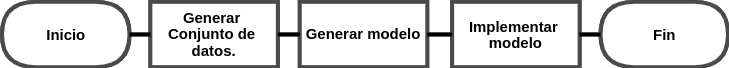
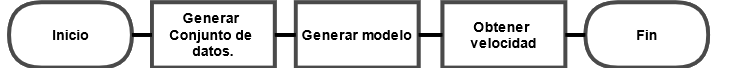
Se actualizo estado del arte, resultados, metodologia y marco teorico.

diff --git a/EstadoDelArte/capitulo.tex b/EstadoDelArte/capitulo.tex
@@ -2,11 +2,9 @@
 
 Actualmente existen múltiples trabajos que determinan la velocidad de objetos, cada uno de una manera muy particular. En este capítulo se muestran algunos trabajos que se tomaron como referencia para desarrollar el presente trabajo.
 
-\section{Determinación simple velocidad, aceleración y ángulo}
+\section{Determinación de velocidad con metodos de visión artificial}
 
 Es posible determinar la velocidad y otras características usando las fórmulas físicas de cada una de ellas. Con lo cual podemos tener una respuesta rápida ya que no se necesita de mucho procesamiento para ejecutar estas fórmulas.
-
-\subsection{Velocidad usando 2 imagenes consecutivas}
 
 \citeauthor{singh2007Estimating} propone determinar la velocidad, aceleración y ángulo de un objeto en  una secuencia de imágenes. Para esto se deben cumplir con las siguientes características:
 
@@ -36,60 +34,58 @@ Para determinar los valores buscados se dibuja un punto en el centroide del obje
     \tan^{-1}\frac{y2-y1}{x2-x1}
 \end{eqnarray}
 
+
+\citeauthor{anil2015Real} proponen un framework hibrido para el seguimiento de múltiples vehículos con la combinación del filtro Kalman y el algoritmo húngaro para resolver el problema de las obstrucciones. La estimación de la velocidad puede ser realizada sin la necesidad de calibrar las cámaras a utilizar, ya que utiliza las líneas del pavimento para realizar una estimación con un error máximo de 3 kilómetros por hora.
+
+
+\citeauthor{li2014Video} desarrollan un sistema para recopilar datos de tráfico a partir de video, el sistema reconoce y se realiza el seguimiento de múltiples vehículos y sus velocidades medias. Propone la sustracción de fondo adaptativo basado en imágenes en color, se eliminan sombras y la configuración de la región de detección para mejorar la robustes del sistema. El conteo de vehículos tiene una precisión de 97.4\%, un error de clasificación de 8.3\% y un error absoluto de 2.3 kilómetros por hora.
+
+
+\citeauthor{khan2019Multiple} proponen un sistema para realizar el seguimiento de vehículo y determinar el exceso de velocidad de vehículos. Para el seguimiento se aplica la diferenciación de cuadros para la detección de objetos. En la diferenciación de fotogramas, se calcula el modelo de fondo y el fotograma actual se resta del fotograma anterior, que se calcula durante el modelado. Después con el análisis de manchas se rastrean los objetos en la región de interés. El sistema propuesto tiene una precisión de 90\% para la detección y la medición de la velocidad.
+
+
+\citeauthor{yang2019Vehicle} proponen el uso de cámaras estéreo calibradas con las cuales estiman la velocidad de vehículos. Este desarrollo usa un sistema optimizado Red de detectores multibox de un solo disparo que puede detectar de manera eficiente las matrículas en las dos vistas capturadas videos estéreo. El sistema funciona solo en el área de la placa, se calculan las coordenadas en un plano 3D correspondientes a los puntos de coincidencia estéreo. La velocidad se mide dividiendo la distancia entre dos puntos 3D por intervalo de cuadros. El sistema tiene un error de velocidad de –1.6 a +1.1 Km y una tasa de error máxima del 3.80\%.
+
+
+\citeauthor{kamoji2020Image} proponen procesar un video cuadro a cuadro, en el cual cada cuadro se procesa con Image Enhancement para mejorar las características de la imagen, e vehículo se identifica con un cuadro delimitador aplicado al vehículo, para notar el movimiento en cada cuadro, el movimiento del vehículo se anota con cambio en el píxel y el cálculo de la velocidad se determina usando la fórmula de distancia considerando pixeles por metro.
+
+
+\citeauthor{kurniawan2018Speed} proponen un sistema que puede monitorear la velocidad de algunos vehículos y determinar qué vehículos han superado la velocidad máxima permitida mediante el seguimiento del vehículo utilizando un método basado en coincidencias. Se utilizo el método de transformación proyectiva para calcular la velocidad de un vehículo. Este método se utiliza para transformar la imagen capturada en la imagen de la vista superior en forma de rectángulo. Según los resultados de las pruebas en el sistema a una velocidad de fotogramas de 30 FPS, la precisión de la velocidad de cálculo es del 97.01\% cuando no hay sombra y 83.86\% cuando hay sombra. Este sistema también puede determinar el tipo de vehículo de automóvil o motocicleta detectado que se rompe con una precisión del 89.62\%.
+
+
+\citeauthor{peng2019Improved} determinan la velocidad de vehículos en movimiento con el uso de cámaras estéreos montadas en drones. Su método integra Mask-R-CNN  y K-Means con el algoritmo de pirámide Lucas Kanade. Mask-R-CNN se utiliza para reconocer los objetos que tienen movimientos en relación con el suelo y los cubre con máscaras para mejorar la similitud entre píxeles y reducir los impactos de los ruidosos píxeles en movimiento. Luego, se utiliza el algoritmo piramidal de Lucas Kanade para calcular el valor de flujo óptico. Finalmente, el valor es agrupado por el algoritmo K-Means para abandonar los valores atípicos, y la velocidad del vehículo es calculada por el flujo óptico procesado. En sus experimentos demuestran que el uso combinado de Lucas Kanade , Mask-R-CNN y K-Means, mejoran sus resultados en comparación del uso de estos métodos por separado o el uso combinado de solo 2 de ellos, aun habiendo realizado experimentos en circunstancias normales, con muchos objetos en movimiento y en circunstancias de poca luz.
+
+
+\citeauthor{schoepflin2003Dynamic} nos muestran un algoritmo de 3 etapas para calibrar cámaras de tráfico en carretera y rastrear vehículos para crear un sensor de velocidad del tráfico. El algoritmo primero estima la posición de la cámara en relación a la carretera usando el movimiento y los bordes de los vehículos. Dada la posición de la cámara, el algoritmo calibra la cámara estimando los límites del carril y el punto de fuga de las líneas a lo largo de la carretera. El algoritmo transforma las coordenadas de la imagen del rastreador de vehículos en coordenadas del mundo real utilizando un modelo de cámara simplificado.
+
+
+\citeauthor{yan2010Research} presenta un método de medición de la velocidad de vehículos en video y un análisis del error de la calibración de la cámara con el método Tsai de dos etapas. En primer lugar, los parámetros internos y externos de la cámara se obtuvieron según el método de dos etapas de Tsai. El desplazamiento del punto característico del mismo vehículo en cada imagen se extrajo y se convirtió al sistema de coordenadas mundiales. Por último, la velocidad de los vehículos se realizó con la diferencia de tiempo entre dos cuadros secuenciales. El resultado experimental muestra que el método de medición de la velocidad del vehículo no solo es simple y práctico, sino también muy robusto y preciso con un error cuadrático medio de 1.6273.
+
+
+\citeauthor{luvizon2014Vehicle} nos muestran un sistema que utiliza la detección de texto para localizar las matrículas de los vehículos, la cual es utilizada para seleccionar las características más estables para el seguimiento. La velocidad del vehículo se estima comparando la trayectoria de las características rastreadas con medidas conocidas del mundo real. En los experimentos realizados las velocidades de los vehículos se estimaron con un error absoluto medio de 0.59 km/h.
+
+
 \section{Redes neuronales para determinar velocidad y otras características}
 
 Las redes neuronales pueden ser aplicadas para determinar la velocidad y otras características de objetos en movimiento obteniendo buenos resultados, hasta compararse con dispositivos especializados para esta tarea, sin embargo, esto implica mayor costo computacional para entrenar estas redes neuronales.
 
-\subsection{aUToTrack}
 
-\citeauthor{burnett2020aUToTrack} presentan un nuevo conjunto de datos de detección y seguimiento de objetos (UofTPed50), que utiliza GPS para determinar la posición y velocidad de un peatón. Tambien presentan un sistema de seguimiento y detección de objetos liviano (aUToTrack) que utiliza visión, LIDAR y posicionamiento GPS/IMU para lograr un rendimiento de vanguardia en el punto de referencia de seguimiento de objetos de KITTI. Demostramos que aUToTrack estima con precisión la posición y la velocidad de los peatones, en tiempo real, utilizando solo CPU.
+\citeauthor{bell2020Accurate} utilizan una cámara de video para estimar la velocidad vehicular. Con el uso de YOLOv2 se encargan de detectar los vehículos de la escena, mientras que el algoritmo de seguimiento en tiempo real en línea simple para el seguimiento de vehículos. La transformación del metraje de la cámara al Sistema de coordenadas de cuadrícula nacional británico, permitió la derivación de distancias del mundo real en la superficie plana de la carretera y las estimaciones simultáneas de la velocidad del vehículo. Las estimaciones lograron la raíz del error cuadrático medio y un error porcentual absoluto medio de 0.625 m/s y 20.922\%, respectivamente.
 
-Para poner a prueba el nuevo conjunto de entrenamiento UofTPed50 se utilizó la red SqueezeDet por contar con la característica de ser una de las redes más rápidas. Por otra parte para el seguimiento de objetos se utilizó el conjunto de entrenamiento KITTI con convoluciones rodantes recurrentes, ya que ocupa el primer lugar entre los trabajos publicados en el punto de referencia de detección de objetos 2D.
 
-\subsection{Red Neuronal Perceptron Multicapa}
+\citeauthor{dong2019Vehicle} proponen un método alternativo de extremo a extremo basado en redes convolucionales tridimensionales. El método propuesto basa la estimación de la velocidad promedio del vehículo en información de imágenes de video. El método se caracteriza por las siguientes tres características. Primero, el uso de bloques no locales en el modelo para capturar mejor la dependencia espacio-temporal de largo alcance. En segundo lugar, el uso de flujo óptico como entrada en el modelo. El flujo óptico incluye la información sobre la velocidad y la dirección del movimiento de los píxeles en una imagen. En tercer lugar, se construyó una red convolucional de múltiples escalas. Esta red extrae información sobre diversas características de los vehículos en movimiento. El método propuesto muestra resultados experimentales prometedores en un conjunto de datos de uso común con un error absoluto medio (MAE) de 2.71 km/h y un error cuadrático medio (MSE) de 14.62.
 
-\citeauthor{kampelmuhler2018Camera} determinan la velocidad relativa de un vehículo utilizando una red neuronal perceptron multicapa la cual fue entrenada usando secuencias de imágenes, obteniendo buenos resultados con un error promedio de 1.12 m/s, el cual es comparable con un radar  LiDAR con un error de 0.71 m/s.
 
-Para determinar la velocidad se identificaron 3 características esenciales: la trayectoria del vehículo en un plano 2D, la profundidad y estimaciones de flujo óptico entre imágenes consecutivas. Al identificar un vehículo en una secuencia de imágenes podemos identificar que este, aumenta o disminuye su tamaño dependiendo la distancia que tiene con respecto al observador, esto complica el aprendizaje para la red neuronal por lo cual se opta por separar la información en cerca, medio y lejos, y entrenar un modelo para cada distancia.
+\citeauthor{burnett2020aUToTrack} presentan un nuevo conjunto de datos de detección y seguimiento de objetos (UofTPed50), que utiliza GPS para determinar la posición y velocidad de un peatón. Tambien presentan un sistema de seguimiento y detección de objetos liviano (aUToTrack) que utiliza visión, LIDAR y posicionamiento GPS/IMU para lograr un rendimiento de vanguardia en el punto de referencia de seguimiento de objetos de KITTI. Demostramos que aUToTrack estima con precisión la posición y la velocidad de los peatones, en tiempo real, utilizando solo CPU. Para poner a prueba el nuevo conjunto de entrenamiento UofTPed50 se utilizó la red SqueezeDet por contar con la característica de ser una de las redes más rápidas. Por otra parte para el seguimiento de objetos se utilizó el conjunto de entrenamiento KITTI con convoluciones rodantes recurrentes, ya que ocupa el primer lugar entre los trabajos publicados en el punto de referencia de detección de objetos 2D.
 
-\subsection{Camaras estereo}
 
-\citeauthor{peng2019Improved} determinan la velocidad de vehículos en movimiento con el uso de cámaras estéreos montadas en drones. Su método integra Mask-R-CNN  y K-Means con el algoritmo de pirámide Lucas Kanade. Mask-R-CNN se utiliza para reconocer los objetos que tienen movimientos en relación con el suelo y los cubre con máscaras para mejorar la similitud entre píxeles y reducir los impactos de los ruidosos píxeles en movimiento. Luego, se utiliza el algoritmo piramidal de Lucas Kanade para calcular el valor de flujo óptico. Finalmente, el valor es agrupado por el algoritmo K-Means para abandonar los valores atípicos, y la velocidad del vehículo es calculada por el flujo óptico procesado.
+\citeauthor{kampelmuhler2018Camera} determinan la velocidad relativa de un vehículo utilizando una red neuronal perceptron multicapa la cual fue entrenada usando secuencias de imágenes, obteniendo buenos resultados con un error promedio de 1.12 m/s, el cual es comparable con un radar  LiDAR con un error de 0.71 m/s. Para determinar la velocidad se identificaron 3 características esenciales: la trayectoria del vehículo en un plano 2D, la profundidad y estimaciones de flujo óptico entre imágenes consecutivas. Al identificar un vehículo en una secuencia de imágenes podemos identificar que este, aumenta o disminuye su tamaño dependiendo la distancia que tiene con respecto al observador, esto complica el aprendizaje para la red neuronal por lo cual se opta por separar la información en cerca, medio y lejos, y entrenar un modelo para cada distancia.
 
-En sus experimentos demuestran que el uso combinado de Lucas Kanade , Mask-R-CNN y K-Means, mejoran sus resultados en comparación del uso de estos métodos por separado o el uso combinado de solo 2 de ellos, aun habiendo realizado experimentos en circunstancias normales, con muchos objetos en movimiento y en circunstancias de poca luz.
 
-\subsection{Arquitectura PWC-Net}
+\citeauthor{song2020Learning} determinan la velocidad y distancia de un vehículo usando dos fotogramas consecutivos, de los cuales obtienen las  características profundas, la geometría de la escena y el flujo óptico temporal. La arquitectura de esta red neuronal profunda se basó en la arquitectura de PWC-Net, la cual es una red de estimación de flujo óptico eficiente. Se extraen diferentes características de diferentes capas de la red para estimar la distancia y la velocidad del vehículo. En primer lugar, se presenta el modelo de regresión de distancia utilizando características profundas y geométricas espaciales de vehículos. Después de eso, se propone el método de estimación de la velocidad con características geométricas adicionales y una pista de flujo óptico temporal. Por último, detallan la canalización de la red centrada en vehículos para reducir la perspectiva y la influencia del movimiento.
 
-\citeauthor{song2020Learning} determinan la velocidad y distancia de un vehículo usando dos fotogramas consecutivos, de los cuales obtienen las  características profundas, la geometría de la escena y el flujo óptico temporal.
+\citeauthor{zhang2017Vehicle} realizaron experimentos para obtener la aceleración, la velocidad y la velocidad angular de un vehículo en movimiento usando cámaras de video posicionadas frente al área de interés. Para sus experimentos utilizaron el conjunto de datos KITTI el cual cuenta con imágenes estereoscópicas de la ciudad, así como arquitecturas CNN y la derivación y combinación de canales de entrada para identificar la dirección del flujo y las máscaras de objetos. Se creó una arquitectura CNN para cada característica buscada, aceleración, velocidad y velocidad angular. Se tomó como línea base una arquitectura CNN de 2 capas, que consta de 2 capas conv-relu-batchnorm-maxpooling y 2 capas afines-relu-batchnorm-dropout. Este proyecto compara los resultados para 4 arquitecturas CNN: línea de base, AlexNet, ResNet y AlexNet con el aprendizaje por transferencia.  Los resultados muestran que para el conjunto de entrenamiento ResNet tiene los mejores resultados seguido por AlexNet con el aprendizaje por transferencia, AlexNet y la línea base. Sin embargo, para el conjunto de validación  los mejores resultados los muestra la línea base, puesto que el entrenamiento de este modelo es más rápido y es posible buscar los hiperparametros para los mejores resultados. AlexNet con el aprendizaje por transferencia y AlexNet son los segundos mejores y ResNet tiene los peores resultados para el conjunto de validación.
 
-La arquitectura de esta red neuronal profunda se basó en la arquitectura de PWC-Net, la cual es una red de estimación de flujo óptico eficiente. Se extraen diferentes características de diferentes capas de la red para estimar la distancia y la velocidad del vehículo. En primer lugar, se presenta el modelo de regresión de distancia utilizando características profundas y geométricas espaciales de vehículos. Después de eso, se propone el método de estimación de la velocidad con características geométricas adicionales y una pista de flujo óptico temporal. Por último, detallan la canalización de la red centrada en vehículos para reducir la perspectiva y la influencia del movimiento.
+\citeauthor{loor2017Visual} busca determinar la velocidad de los objetos utilizando 2 imágenes consecutivas. Para encontrar la velocidad el autor tomo como base la red neuronal FlowNet la cual ha aprendido a encontrar el flujo óptico en dos imágenes. FlowNet tiene dos arquitecturas de red diferentes: una arquitectura simple y una arquitectura de correlación. Ambas arquitecturas se basan en la red totalmente convolucional, lo que significa que esta red puede utilizar cualquier tamaño de imagen de entrada para determinar su flujo óptico. Una FlowNetSimple se entrena usando dos imágenes que se apilan juntas, dando lugar a una imagen de 6 dimensiones. Las siguientes capas se han diseñado como una red genérica, para permitir que la red decida cómo aprender el flujo óptico. En la FlowNetCorr se combinan las dos imágenes en una etapa posterior, después de que el modelo haya creado representaciones significativas de cada imagen por separado. Para ayudar al modelo a aprender las correspondencias entre la representación de características de las imágenes, se introdujo una capa de correlación. Para este trabajo se crearon 2 modelos basados en FlowNet, TimeNet y SpeedNet. TimeNet es un clasificador que puede predecir los tiempos entre fotogramas en milisegundos. SpeedNet es un modelo de regresión que genera una predicción de velocidad en forma de un solo valor. Tanto el modelo TimeNet como SpeedNet demostraron dar resultados aceptables cuando se tiene una velocidad baja, empeorando cuando la velocidad aumenta.
 
-\subsection{CNN}
-
-\citeauthor{zhang2017Vehicle} realizaron experimentos para obtener la aceleración, la velocidad y la velocidad angular de un vehículo en movimiento usando cámaras de video posicionadas frente al área de interés. Para sus experimentos utilizaron el dataset KITTI el cual cuenta con imágenes estereoscópicas de la ciudad, así como arquitecturas CNN y la derivación y combinación de canales de entrada para identificar la dirección del flujo y las máscaras de objetos.
-
-Se creó una arquitectura CNN para cada característica buscada, aceleración, velocidad y velocidad angular. Se tomó como línea base una arquitectura CNN de 2 capas, que consta de 2 capas conv-relu-batchnorm-maxpooling y 2 capas afines-relu-batchnorm-dropout.
-
-Este proyecto compara los resultados para 4 arquitecturas CNN: línea de base, AlexNet, ResNet y AlexNet con el aprendizaje por transferencia.  Los resultados muestran que para el conjunto de entrenamiento ResNet tiene los mejores resultados seguido por AlexNet con el aprendizaje por transferencia, AlexNet y la línea base. Sin embargo, para el conjunto de validación  los mejores resultados los muestra la línea base, puesto que el entrenamiento de este modelo es más rápido y es posible buscar los hiperparametros para los mejores resultados. AlexNet con el aprendizaje por transferencia y AlexNet son los segundos mejores y ResNet tiene los peores resultados para el conjunto de validación.
-
-\subsection{FlowNet}
-
-\citeauthor{loor2017Visual} busca determinar la velocidad de los objetos utilizando 2 imágenes consecutivas. Para encontrar la velocidad el autor tomo como base la red neuronal FlowNet la cual ha aprendido a encontrar el flujo óptico en dos imágenes.
-
-FlowNet tiene dos arquitecturas de red diferentes: una arquitectura simple y una arquitectura de correlación. Ambas arquitecturas se basan en la red totalmente convolucional, lo que significa que esta red puede utilizar cualquier tamaño de imagen de entrada para determinar su flujo óptico.
-
-Una FlowNetSimple se entrena usando dos imágenes que se apilan juntas, dando lugar a una imagen de 6 dimensiones. Las siguientes capas se han diseñado como una red genérica, para permitir que la red decida cómo aprender el flujo óptico.
-
-En la FlowNetCorr se combinan las dos imágenes en una etapa posterior, después de que el modelo haya creado representaciones significativas de cada imagen por separado. Para ayudar al modelo a aprender las correspondencias entre la representación de características de las imágenes, se introdujo una capa de correlación.
-
-Para este trabajo se crearon 2 modelos basados en FlowNet, TimeNet y SpeedNet. TimeNet es un clasificador que puede predecir los tiempos entre fotogramas en milisegundos. SpeedNet es un modelo de regresión que genera una predicción de velocidad en forma de un solo valor.
-
-Tanto el modelo TimeNet como SpeedNet demostraron dar resultados aceptables cuando se tiene una velocidad baja, empeorando cuando la velocidad aumenta.
-
-\subsection{YOLO}
-
-YOLO (\cite{redmon2016Yolo}) implementa la detección de objetos como un problema de regresión a cuadros delimitadores separados espacialmente y probabilidades de clase asociadas. Una sola red neuronal predice el área y las probabilidades de múltiples clases a partir de una imagen. Esto significa que YOLO razona globalmente sobre la imagen completa y todos los objetos de la imagen. Dado que toda la detección es una sola red, afecta directamente en el rendimiento de la detección.
-
-YOLO es implementada como una red neuronal convolucional y es evaluada usando el conjunto de datos PASCAL VOC. Las capas convolucionales iniciales de la red extraen características de la imagen, mientras que las capas completamente conectadas predicen las probabilidades y coordenadas de salida.
-
-Según los autores la red YOLO es extremadamente rápida lo cual la hace ideal para detecciones en tiempo real, procesando imágenes a 45 fotogramas por segundo. Una implementación reducida de la red puede procesar 155 fotogramas por segundo. Por otra parte, YOLO comete más errores de localización, al precio de disminuir la predicción de falsos positivos, superando otros métodos de predicción como DPM y RCNN.
+YOLO (\cite{redmon2016Yolo}) implementa la detección de objetos como un problema de regresión a cuadros delimitadores separados espacialmente y probabilidades de clase asociadas. Una sola red neuronal predice el área y las probabilidades de múltiples clases a partir de una imagen. Esto significa que YOLO razona globalmente sobre la imagen completa y todos los objetos de la imagen. Dado que toda la detección es una sola red, afecta directamente en el rendimiento de la detección. YOLO es implementada como una red neuronal convolucional y es evaluada usando el conjunto de datos PASCAL VOC. Las capas convolucionales iniciales de la red extraen características de la imagen, mientras que las capas completamente conectadas predicen las probabilidades y coordenadas de salida. Según los autores la red YOLO es extremadamente rápida lo cual la hace ideal para detecciones en tiempo real, procesando imágenes a 45 fotogramas por segundo. Una implementación reducida de la red puede procesar 155 fotogramas por segundo. Por otra parte, YOLO comete más errores de localización, al precio de disminuir la predicción de falsos positivos, superando otros métodos de predicción como DPM y RCNN.

diff --git a/Resultados/subtemas/Scikit.tex b/Resultados/subtemas/Scikit.tex
@@ -12,12 +12,11 @@ Para el caso de la implementación de Scikit se utilizaron los siguientes modelo
     \item Regresión de Máquina de Soporte Vectorial
 \end{itemize}
 
-Los experimentos con el uso de la biblioteca Scikit se realizaron un total de 800 veces, con estos resultados se obtuvo el valor mínimo, el valor máximo y el promedio de todos los experimentos.
+Los experimentos con el uso de la biblioteca Scikit se realizaron un total de 800 veces ya que esta es la cantidad máxima permitida por los recursos del hardware utilizado, con estos resultados se obtuvo el valor mínimo, el valor máximo y el promedio de todos los experimentos.
 
 \subsection{Carril central}
 
-La tabla \ref{tab:resultadosScikitCarrilCentral} muestra los resultados para el carril central, en kilometros por hora.
-
+La Tabla \ref{tab:resultadosScikitCarrilCentral} muestra los resultados para el carril central en kilómetros por hora, podemos notar que el valor mínimo obtenido es para la Regresión Lineal, pero hay promedios cercanos en milésimas para la Regresión Lineal, Regresión Ridge, Lasso, Regresión Bayesiana y Elastic Net.
 
 \begin{table}[H]
     \centering
@@ -26,8 +25,8 @@ La tabla \ref{tab:resultadosScikitCarrilCentral} muestra los resultados para el 
     \begin{tabular}{|l|l|l|l|l|l|l|l|} \hline
         & \textbf{RL} & \textbf{RC} & \textbf{Lasso} & \textbf{RCB} & \textbf{Elastic Net} & \textbf{RRF} & \textbf{RSVM} \\ \hline
 
-        \textbf{MIN} & 1.246 & 1.256 & 1.271 & 1.253 & 1.278                & 1.433 & 1.598 \\ \hline
-        \textbf{MAX} & 2.16 & 2.142 & 2.149 & 2.153 & 2.156                & 2.282 & 2.441 \\ \hline
+        \textbf{MIN} & 1.246 & 1.256 & 1.271 & 1.253 & 1.278 & 1.433 & 1.598 \\ \hline
+        \textbf{MAX} & 2.16 & 2.142 & 2.149 & 2.153 & 2.156 & 2.282 & 2.441 \\ \hline
         \textbf{Prom} & 1.692 & 1.696 & 1.699 & 1.696 & 1.699 & 1.829 & 1.962 \\ \hline
     \end{tabular}
 \end{table}
@@ -35,8 +34,7 @@ La tabla \ref{tab:resultadosScikitCarrilCentral} muestra los resultados para el 
 
 \subsection{Ultimo Carril}
 
-La tabla \ref{tab:resultadosScikitUltimoCarril} muestra los resultados para el ultimo carril, en kilometros por hora.
-
+La tabla \ref{tab:resultadosScikitUltimoCarril} muestra los resultados para el ultimo carril en kilómetros por hora, en este caso tenemos valores mínimos iguales para los modelos de Regresión Lineal, Regresión Ridge, Lasso y Regresión Bayesiana. Mientras que para los promedios los valores más bajos son para la Regresión Lineal y la Regresión Bayesiana.
 
 \begin{table}[H]
     \centering
@@ -44,7 +42,6 @@ La tabla \ref{tab:resultadosScikitUltimoCarril} muestra los resultados para el u
     \label{tab:resultadosScikitUltimoCarril}
     \begin{tabular}{|c|l|l|l|l|l|l|l|} \hline
         & \textbf{RL} & \textbf{RC} & \textbf{Lasso} & \textbf{RCB} & \textbf{Elastic Net} & \textbf{RRF} & \textbf{RSVM} \\ \hline
-
         \textbf{MIN} & 0.738 & 0.738 & 0.738 & 0.738 & 0.760 & 0.842 & 1.516 \\ \hline
         \textbf{MAX} & 1.220 & 1.224 & 1.231 & 1.220 & 1.278 & 1.400 & 2.578 \\ \hline
         \textbf{Prom} & 0.958 & 0.965 & 0.976 & 0.958 & 0.997 & 1.087 & 1.940 \\ \hline

diff --git a/Resultados/subtemas/TensorFlow.tex b/Resultados/subtemas/TensorFlow.tex
@@ -1,12 +1,19 @@
 \section{Tensor Flow}
 
-Para la implementación en Tensor Flow se utilizó una red neuronal sencilla con 2 neuronas de entrada, 5 neuronas en la capa oculta y 1 neurona en la capa de salida.
+Para la implementación en Tensor Flow se utilizó una red neuronal sencilla con 2 neuronas de entrada, 5 neuronas en la capa oculta y 1 neurona en la capa de salida. La Figura \ref{fig:RedTF} muestra esta red.
 
-Para la implementación con la biblioteca Tensor Flow se realizaron 1000 entrenamientos, con los resultados de estos entrenamientos se obtuvo el valor mínimo el valor máximo y el promedio de todos los experimentos.
+\begin{figure}[H]
+    \centering
+    \includegraphics[width=0.5\textwidth]{Resultados/imgs/RedTF.png}
+    \caption{Red neuronal implementada en Tensor Flow.}
+    \label{fig:RedTF}
+\end{figure}
+
+Para la implementación con la biblioteca Tensor Flow se realizaron 1000 entrenamientos ya que esta es la cantidad máxima permitida por los recursos del hardware utilizado, con los resultados de estos entrenamientos se obtuvo el valor mínimo el valor máximo y el promedio de todos los experimentos.
 
 \subsection{Carril central}
 
-La tabla \ref{tab:resultadosTFCCentral} muestra los resultados para el carril central, en metros sobre segundo.
+La Tabla \ref{tab:resultadosTFCCentral} muestra los resultados para el carril central en kilómetros por hora, podemos notar que para estos experimentos tenemos un promedio de 12.762 K/H con un valor mínimo de 1.872 K/H.
 
 
 \begin{table}[H]
@@ -17,7 +24,7 @@ La tabla \ref{tab:resultadosTFCCentral} muestra los resultados para el carril ce
 
     & \multicolumn{1}{c|}{\textbf{Error}} \\ \hline
     \textbf{MIN} & 1.872 \\ \hline
-    \textbf{MAX} & 237.0672 \\ \hline
+    \textbf{MAX} & 237.067 \\ \hline
     \textbf{Promedio} & 12.762 \\ \hline
     \end{tabular}
 \end{table}
@@ -25,7 +32,8 @@ La tabla \ref{tab:resultadosTFCCentral} muestra los resultados para el carril ce
 
 \subsection{Ultimo Carril}
 
-La tabla \ref{tab:resultadosTFCUltimo} muestra los resultados para el ultimo carril, en metros sobre segundo.
+La Tabla \ref{tab:resultadosTFCUltimo} muestra los resultados para el ultimo carril en kilómetros por hora, la cual nos muestra un valor mínimo de 2.128 K/H con un promedio de 13.172 K/H.
+
 
 \begin{table}[H]
     \centering
@@ -34,8 +42,8 @@ La tabla \ref{tab:resultadosTFCUltimo} muestra los resultados para el ultimo car
     \begin{tabular}{|c|l|}\hline
 
     & \multicolumn{1}{c|}{\textbf{Error}} \\ \hline
-    \textbf{MIN} & 2.1276 \\ \hline
-    \textbf{MAX} & 253.9296 \\ \hline
-    \textbf{Promedio} & 13.1724 \\ \hline
+    \textbf{MIN} & 2.128 \\ \hline
+    \textbf{MAX} & 253.930 \\ \hline
+    \textbf{Promedio} & 13.172 \\ \hline
     \end{tabular}
 \end{table}

diff --git a/Resultados/capitulo.tex b/Resultados/capitulo.tex
@@ -1,15 +1,12 @@
 \chapter{Resultados}
 
-La implementación del sistema dio como resultado un total de 178 videos tomados, de los cuales solo fueron procesados un total de 29 videos, la baja cantidad de videos procesados fue debido al tiempo de ejecución del sistema, además de que en algunos casos había que volver a procesar un mismo video varias veces, el sistema procesa entre 30 y 45 fotogramas por segundo lo cual se traduce en el mejor de los casos en 1.333 segundos procesar un segundo real de video.
+En esta sección se presentan los resultados de implementar el sistema con el cual se obtuvo un conjunto de datos para realizar experimentos con este y calcular la velocidad vehicular.
 
-Los 29 videos procesados dieron un total de 532 datos generados, con datos se realizaron los experimentos, los cuales comenzaron por el cálculo mostrado en la Sección \ref{cap:GenerarModelo}, el uso de modelos implementados en la biblioteca Scikit Learn de Python para terminar con el uso de Tensor Flow implementado una red neuronal de capaz densas.
-
-Para los experimentos los datos fueron separados por carril 0, 1 y 2, los cuales representan el primer carril, carril centrar y ultimo carril. Para cada uno de ellos tenemos 8 datos, 239 datos y 285 datos respectivamente, para el primer carril fueron omitidas las pruebas puesto que no se cuenta con datos suficientes.
-
-Para todos los casos fue implementada la métrica de evaluación del promedio de error absoluto, con esto podemos darnos una idea de que tan precisa es nuestra predicción con los diferentes modelos implementados.
-
-
+\input{Resultados/subtemas/LugarMuestras}
+\input{Resultados/subtemas/MuestrasObtenidas}
 \input{Resultados/subtemas/Hardware}
+\input{Resultados/subtemas/Experimentos}
 \input{Resultados/subtemas/RegresionLineal}
 \input{Resultados/subtemas/Scikit}
 \input{Resultados/subtemas/TensorFlow}
+\input{Resultados/subtemas/AnalisisResultados}

diff --git a/Metodologia/subtemas/GenerarModelo.tex b/Metodologia/subtemas/GenerarModelo.tex
@@ -1,6 +1,10 @@
 \subsection{Generar Modelo}
 \label{cap:GenerarModelo}
 
+En este trabajo se utilizaron dos maneras para generar un modelo para determinar la velocidad, el primero se basa utilizando la formula física de la velocidad y encontrando un factor de correlación y el segundo es por el entrenamiento de modelos con los que también podemos determinar la velocidad.
+
+\subsection{Generar modelo basado en factor de correlación}
+
 Para determinar la velocidad utilizando el conjunto de datos generado por el sistema partimos de lo más sencillo utilizando la formula física para el cálculo de la velocidad, Ecuación \ref{eq:Velocidad}.
 
 \begin{equation}
@@ -14,6 +18,15 @@ En este caso las muestras fueron tomadas por un Radar que solo nos proporciona l
     \label{eq:ConvertMSKH}
     \frac{M}{S} = \frac{18}{5} \times \frac{K}{H}
 \end{equation}
+
+A partir que tenemos la formula física para el cálculo de la velocidad y la conversión de la velocidad en metros por segundo en lugar de kilómetros por hora, podemos definir el proceso para crear el modelo en el diagrama de flujo que se muestra en la Figura \ref{fig:CrearModeloCustom}.
+
+\begin{figure}[H]
+    \centering
+    \includegraphics[width=0.9\textwidth]{Metodologia/imgs/CrearModeloCustom.png}
+    \caption{Diagrama de flujo para la creacion de modelo con la formula fisica de la velocidad.}
+    \label{fig:CrearModeloCustom}
+\end{figure}
 
 La Tabla \ref{tab:CaracteristicasSistema} muestra que contamos con los 3 parámetros necesarios para estimar la velocidad, sin embargo, tenemos el valor de la distancia en pixeles, por lo que tenemos que encontrar el valor de la distancia estimada utilizando los valores con los que contamos, lo cual quedaría como muestra la Ecuación \ref{eq:DistanciaEstimada}.
 

diff --git a/Resultados/subtemas/RegresionLineal.tex b/Resultados/subtemas/RegresionLineal.tex
@@ -1,6 +1,10 @@
 \section{Regresión lineal para cálculo de la velocidad}
 
-En la Sección SECCION mostramos el cálculo de la velocidad utilizando una regresión simple implementada utilizando solamente la formula básica de la velocidad. Ahora mostraremos los resultados utilizando esta misma metodología en la Tabla \ref{tab:resultadosRLS}.
+En la Sección \ref{cap:GenerarModelo} mostramos el cálculo de la velocidad utilizando una regresión simple implementada utilizando solamente la formula básica de la velocidad, en estos experimentos se utilizó esta misma fórmula para el conjunto de datos creado con el sistema, utilizando solamente el carril central y el ultimo carril.
+
+\subsection{Resultados Regresión lineal para cálculo de la velocidad}
+
+En la Tabla \ref{tab:resultadosRLS} de resultados podemos notar que los mejores resultados están en el último carril con 5.86 K/H, mientras que el carril central tiene 7.74 K/H. Tomamos estos resultados como punto de referencia para mejorar las futuras predicciones, ya que estos no son tan buenos en comparación por ejemplo del margen de error del radar Bushnell utilizado.
 
 \begin{table}[H]
     \centering
@@ -8,8 +12,8 @@ En la Sección SECCION mostramos el cálculo de la velocidad utilizando una regr
     \label{tab:resultadosRLS}
     \begin{tabular}{|l|l|l|}
     \hline
-         & M/S & K/H \\ \hline
-        Carril Central & 2.15 & 7.74 \\ \hline
-        Ultimo Carril & 1.63 & 5.86 \\ \hline
+    \textbf{} & \textbf{M/S} & \textbf{K/H} \\ \hline
+    \textbf{Carril Central} & 2.15 & 7.74 \\ \hline
+    \textbf{Ultimo Carril}  & 1.63 & 5.86 \\ \hline
     \end{tabular}
 \end{table}

diff --git a/MarcoTeorico/AprendizajeMaquina.tex b/MarcoTeorico/AprendizajeMaquina.tex
@@ -3,7 +3,7 @@
 
 La inteligencia artificial incorpora un conjunto diverso de trabajos relacionados con el razonamiento automático mientras que el subcampo del aprendizaje maquina se especializa en el reconocimiento de patrones y el aprendizaje de los datos (\cite{rosebrock2017deep}).
 
-El aprendizaje maquina utiliza algoritmos para extraer información o patrones de un conjunto de datos(Dataset) sin procesar y representarla en un modelo, después usar este modelo para inferir resultados sobre otros datos que aún no hemos modelado (\cite{patterson2017deep}).
+El aprendizaje maquina utiliza algoritmos para extraer información o patrones de un conjunto de datos(\textit{Dataset}) sin procesar y representarla en un modelo, después usar este modelo para inferir resultados sobre otros datos que aún no hemos modelado (\cite{patterson2017deep}).
 
 El aprendizaje maquina utiliza estadísticas. Estamos acostumbrados a resolver un problema determinista en el que nuestra solución resuelve el problema todo el tiempo. Hay muchos problemas en los que la solución no es determinista. Es decir, no sabemos lo suficiente sobre el problema o no tenemos suficiente potencia para modelar correctamente el problema. Para estos problemas necesitamos estadísticas(\cite{harrington2012Machine}).
 
@@ -43,7 +43,7 @@ Existen una gran variedad de conjuntos de datos con una gran cantidad de clases 
 \begin{figure}[H]
     \centering
     \includegraphics[width=0.6\textwidth]{MarcoTeorico/imgs/CIFAR-10.png}
-    \caption{Dataset CIFAR-10.}
+    \caption{\textit{Dataset} CIFAR-10.}
     \label{fig:cifar10}
 \end{figure}
 

diff --git a/Resultados/subtemas/LugarMuestras.tex b/Resultados/subtemas/LugarMuestras.tex
@@ -1,0 +1,12 @@
+\section{Lugar muestras}
+
+Para la toma de las muestras se eligió un lugar de la ciudad donde el flujo de vehículos es considerablemente constante. Este lugar fue en la calzada las Torres frente a Plaza San Isidro en la ciudad de Culiacán, Sinaloa. Una parte de las muestras fueron tomadas en las mañanas entre las 10 y las 12 A.M. mientras que otra parte de las muestras fueron tomadas entre las 5 y 7 P.M. las muestras nos pueden nos proporcionan una idea de cuáles son las horas en las que hay un mayor flujo de vehículos, para el caso de este lugar la tarde es cuando hay un flujo vehicular mayor, ya que en algunos casos de las muestras hay hasta 30 segundos con ausencia de vehículos en las muestras tomadas en la mañana. La Figura IMAGEN es del lugar donde se tomaron las muestras.
+
+\begin{figure}[H]
+    \centering
+    \includegraphics[width=0.9\textwidth]{Resultados/imgs/LugarMuestras.jpg}
+    \caption{Lugar donde fueron tomadas las muestras.}
+    \label{fig:LugarMuestras}
+\end{figure}
+
+Este lugar tiene un flujo de oeste a este, lo cual para la cámara es un flujo de derecha a izquierda. También podemos notar que la calle por la cual pasan los vehículos no está nivelada, para la vista de la cámara los vehículos pasan de arriba hacia abajo. Como se mencionó en la Metodología, hubo especial cuidado a la hora de posicionar la cámara para que los vehículos no pasen paralelamente a la vista de la misma, por lo que se posiciono apuntando un poco hacia la subida de la calle.

diff --git a/Resultados/subtemas/Experimentos.tex b/Resultados/subtemas/Experimentos.tex
@@ -1,0 +1,8 @@
+\section{Experimentos}
+
+Principalmente se implementaron 3 experimentos, el primero es utilizando el cálculo mostrado en la Sección \ref{cap:GenerarModelo}, el segundo es utilizando modelos implementados en la biblioteca Scikit Learn de Python y por último con el uso de Tensor Flow implementado una red neuronal de capaz densas.
+
+En el caso de Scikit y Tensor Flow, tenemos que considerar que para cada entrenamiento podemos obtener diferentes resultados. Esto debido a la inicialización de los pesos ya que esta se realiza de manera aleatoria internamiento para cada uno de ellos. Por esta situación se decidió realizar un número considerable de veces los experimentos con el conjunto de datos creado, con lo cual tendremos diferentes resultados cada vez que se realicen los experimentos, con esto presentaremos el valor máximo de error obtenido con respecto al total de veces que se repitieron los entrenamientos, el valor mínimo y el promedio de todos los entrenamientos.
+
+Para todos los casos fue implementada la métrica de evaluación del Error Absoluto Medio, lo cual significa que las predicciones tienen en promedio un margen de error de N M/S o su equivalente en K/H, con esto podemos darnos una idea de que tan precisa es nuestra predicción con los diferentes modelos implementados.
+

diff --git a/Resultados/subtemas/MuestrasObtenidas.tex b/Resultados/subtemas/MuestrasObtenidas.tex
@@ -1,0 +1,13 @@
+\section{Lugar Muestras}
+
+La implementación del sistema dio como resultado un total de 178 videos tomados, de los cuales solo fueron procesados un total de 29 videos, la baja cantidad de videos procesados fue debido al tiempo de ejecución del sistema, además de que en algunos casos había que volver a procesar un mismo video varias veces, el sistema procesa entre 30 y 45 fotogramas por segundo lo cual se traduce en el mejor de los casos en 1.333 segundos procesar un segundo real de video.
+
+Los 29 videos procesados dieron un total de 532 datos generados, con datos se realizaron los experimentos, para los experimentos los datos fueron separados por carril 0, 1 y 2, los cuales representan el primer carril, carril centrar y ultimo carril. Los datos para cada carril son los siguientes:
+
+\begin{itemize}
+    \item Primer carril: 8 datos
+    \item Carril central: 239 datos
+    \item Ultimo carril: 285 datos
+\end{itemize}
+
+Como podemos notar la diferencia del número de datos para el primer carril es considerablemente bajo con respecto a los otros dos carriles, por lo cual se omitieron los experimentos para este carril, dejando solamente el cerril central y el ultimo carril.

diff --git a/Resultados/subtemas/AnalisisResultados.tex b/Resultados/subtemas/AnalisisResultados.tex
@@ -1,0 +1,5 @@
+\section{Análisis de resultados}
+
+Como podemos observar tenemos los mejores resultados con el uso de los modelos con la biblioteca Scikit principalmente en el último carril, esto debido que es el carril con la mayoría de las muestras. Por otra parte, en el caso de los experimentos utilizando el método del factor de correlación tenemos buenos resultados, al final tenemos el modelo de Tensor Flow.
+
+Podemos concluir que en el caso del comparativo entre el uso de la biblioteca de Scikit y el factor de correlación, hay una falta de datos para aumentar la precisión de las inferencias, esto también lo podemos observar en el caso del uso de Tensor Flow, sin embargo, a este modelo debemos agregarle que es un modelo simple el cual solo usa capas densas, con lo cual mejoraría aumentando el número de neuronas, el uso de otras arquitecturas como las redes neuronales convolucionales entre otros.

diff --git a/Metodologia/capitulo.tex b/Metodologia/capitulo.tex
@@ -1,4 +1,4 @@
-\chapter{Metodologia}
+\chapter{Metodología}
 
 En este capítulo se describirá a detalle cómo se realizó el proceso de toma de muestras, así como, el proceso completo necesario para generar un conjunto de datos capaz de determinar la velocidad de vehículos.
 
@@ -11,6 +11,6 @@ La metodología completa es simple como muestra la Figura \ref{fig:MetodologiaDF
     \label{fig:MetodologiaDF}
 \end{figure}
 
-\input{Metodologia/subtemas/CreacionConjuntoDatos}
+\input{Metodologia/subtemas/GenerarConjuntoDatos}
 \input{Metodologia/subtemas/GenerarModelo}
-\input{Metodologia/subtemas/ImplementacionModelo}
+\input{Metodologia/subtemas/ObtenerVelocidad}
